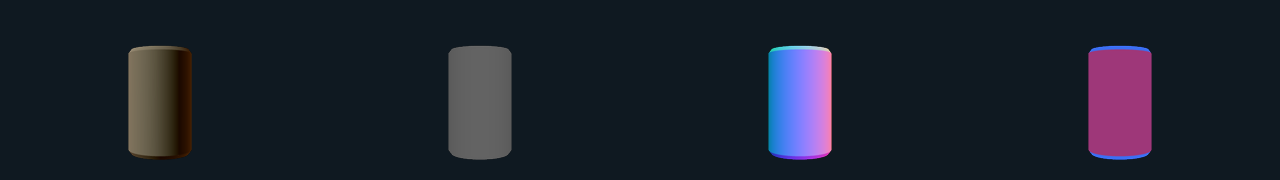
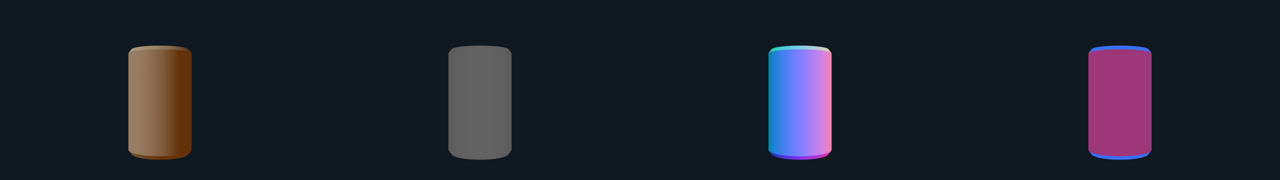
Hybrid starter: light the can at environment intensity 1, measured
The starter's plate-lit environment intensity (1.5) was set while the
mirrored half of the panorama was empty. With both halves filled, a
plain can beside a real can in three generated plates came out, by mean
linear-light brightness over the bodies (code can / real can):

  plate                  0.8    1.0    1.2
  desk, lit from front   0.83   1.05   1.28
  kitchen, from front    0.84   1.06   1.29
  patio, sun behind      1.35   1.63   1.89

with the lids at aluminium's reflectance (#f5f6f6, about 0.91). With the
old #d9dde2 (about 0.72) the front-lit plates needed about 1.27, which is
why a higher gain looked right before. Intensity 1 means the
environment's light is the plate's own pixel values. The backlit plate
cannot be matched by a single value, because the mirrored half also puts
the sun in front of the object; the docs now give that figure.

The integration test's thresholds were not changed: lit/shaded on the
synthetic plate is 168/116 (was 183/140), still above both the 1.2 ratio
and the shaded floor of 90, and the pre-fix environment still fails the
floor (43). The two docs images showed the pre-fix black shaded side and
are regenerated.

Changed region(s): [[0.0938, 0.25, 0.1562, 0.8889]]

diff --git a/docs/hybrid-scenes.md b/docs/hybrid-scenes.md
@@ -165,7 +165,7 @@ None of this narrows what a renderer may draw. A scene that uses other libraries
 Three helpers guess from a single view. Expose their results as controls.
 
 - **`estimateKeyLight`** reads which side the light is on from the brightest 5% of the frame. A picture cannot say how far in front of or behind the subject the light is, so that part is a stated assumption: a small source is placed level with the subject, a broad one in front of it. The brightest area is not always the light: a white desk under a window reads as light from below, and a low sun behind the subject reads as light from the front. A shadow cast from the estimate then falls the wrong way, so let the author set the direction.
-- **`createPlateEnvironment`** has only what the camera saw. It puts the plate in front and a mirrored copy behind the camera, and pushes clipped highlights above 1 so they can act as light sources. The result is plausible. It is not a measurement of the real surroundings, and the highlight boost is not recovered data. Use a real `environment` asset when you have one.
+- **`createPlateEnvironment`** has only what the camera saw. It puts the plate in front and a mirrored copy behind the camera, and pushes clipped highlights above 1 so they can act as light sources. The result is plausible. It is not a measurement of the real surroundings, and the highlight boost is not recovered data. Use a real `environment` asset when you have one. Keep `scene.environmentIntensity` at 1, as the starter does: the light is then the plate's own pixel values with no gain, and a material should have its real reflectance (aluminium is about 0.91, `#f5f6f6`).
 - **Depth `near` and `far`** are yours to tune, as above.
 
 ## Frame rate
@@ -215,7 +215,7 @@ The helpers were tried on twelve 5–6 second plates from four video models (See
 | Screen or label on a surface | Holds on rigid surfaces. A screen pinned to a phone in a moving hand stayed within 3 px of where it started on the screen, at 1088 × 1920, while the phone moved 24 px. A sheet of paper that curled is not a plane: with all four corners right, its edges missed the pin by up to 15 px. |
 | Headline behind a subject | Works with a hosted matte. Hair over dark letters shows a 1–2 px light fringe. |
 | Footage in front of a 3D object | Works once `near` and `far` are tuned by eye. The edge is as rough as the depth map's own edge, a few pixels. A depth model that normalises each frame separately changes an object's value when something new enters the shot; prefer one that is consistent over time. |
-| Lit by the footage | The plate's colour carries over. Under strongly coloured light a bare metal object takes too much of it (aluminium read as brass in a warm kitchen). `estimateKeyLight` chose the wrong side on two of three plates, as described above. |
+| Lit by the footage | The plate's colour carries over. Under strongly coloured light a bare metal object takes too much of it (aluminium read as brass in a warm kitchen). At environment intensity 1, a plain aluminium can was 5–6% brighter over its body than a real can standing beside it, on the two plates lit from the front. On a plate lit from behind (a low sun in the shot) it was 1.6 times too bright, because the mirrored half puts that sun in front of the object too. `estimateKeyLight` chose the wrong side on two of three plates, as described above. |
 | Placing a 3D object without a camera solve | A real stand-in object in the plate (a plain can), tracked as a plane, gave position and scale for a code object beside it through a slow push-in. It also shows what the plate's own light and shadow look like on that object. |
 
 Two things made pinned graphics read as part of the surface: a `mix-blend-mode` chosen for the material (`screen` for chalk on a dark board, `multiply` for print on paper), and the plate's own frame rate for the whole project.

diff --git a/skills/editableframes/references/hybrid.md b/skills/editableframes/references/hybrid.md
@@ -157,7 +157,7 @@ None of this narrows what a renderer may draw. A scene that uses other libraries
 Three helpers guess from a single view. Expose their results as controls.
 
 - **`estimateKeyLight`** reads which side the light is on from the brightest 5% of the frame. A picture cannot say how far in front of or behind the subject the light is, so that part is a stated assumption: a small source is placed level with the subject, a broad one in front of it. The brightest area is not always the light: a white desk under a window reads as light from below, and a low sun behind the subject reads as light from the front. A shadow cast from the estimate then falls the wrong way, so let the author set the direction.
-- **`createPlateEnvironment`** has only what the camera saw. It puts the plate in front and a mirrored copy behind the camera, and pushes clipped highlights above 1 so they can act as light sources. The result is plausible. It is not a measurement of the real surroundings, and the highlight boost is not recovered data. Use a real `environment` asset when you have one.
+- **`createPlateEnvironment`** has only what the camera saw. It puts the plate in front and a mirrored copy behind the camera, and pushes clipped highlights above 1 so they can act as light sources. The result is plausible. It is not a measurement of the real surroundings, and the highlight boost is not recovered data. Use a real `environment` asset when you have one. Keep `scene.environmentIntensity` at 1, as the starter does: the light is then the plate's own pixel values with no gain, and a material should have its real reflectance (aluminium is about 0.91, `#f5f6f6`).
 - **Depth `near` and `far`** are yours to tune, as above.
 
 ## Frame rate
@@ -203,7 +203,7 @@ The helpers were tried on twelve 5–6 second plates from four video models (See
 | Screen or label on a surface | Holds on rigid surfaces. A screen pinned to a phone in a moving hand stayed within 3 px of where it started on the screen, at 1088 × 1920, while the phone moved 24 px. A sheet of paper that curled is not a plane: with all four corners right, its edges missed the pin by up to 15 px. |
 | Headline behind a subject | Works with a hosted matte. Hair over dark letters shows a 1–2 px light fringe. |
 | Footage in front of a 3D object | Works once `near` and `far` are tuned by eye. The edge is as rough as the depth map's own edge, a few pixels. A depth model that normalises each frame separately changes an object's value when something new enters the shot; prefer one that is consistent over time. |
-| Lit by the footage | The plate's colour carries over. Under strongly coloured light a bare metal object takes too much of it (aluminium read as brass in a warm kitchen). `estimateKeyLight` chose the wrong side on two of three plates, as described above. |
+| Lit by the footage | The plate's colour carries over. Under strongly coloured light a bare metal object takes too much of it (aluminium read as brass in a warm kitchen). At environment intensity 1, a plain aluminium can was 5–6% brighter over its body than a real can standing beside it, on the two plates lit from the front. On a plate lit from behind (a low sun in the shot) it was 1.6 times too bright, because the mirrored half puts that sun in front of the object too. `estimateKeyLight` chose the wrong side on two of three plates, as described above. |
 | Placing a 3D object without a camera solve | A real stand-in object in the plate (a plain can), tracked as a plane, gave position and scale for a code object beside it through a slow push-in. It also shows what the plate's own light and shadow look like on that object. |
 
 Two things made pinned graphics read as part of the surface: a `mix-blend-mode` chosen for the material (`screen` for chalk on a dark board, `multiply` for print on paper), and the plate's own frame rate for the whole project.

diff --git a/CHANGELOG.md b/CHANGELOG.md
@@ -11,6 +11,7 @@ Hybrid scenes: code-rendered elements composited with filmed or generated footag
 - Add shutter motion blur at export: `render --motion-blur ANGLE [--samples N]`.
 - Add `init --hybrid`, a starter with a synthetic plate, and `npm run test:hybrid`.
 - Document a trial of the hybrid helpers on generated footage, and how to conform mattes and depth maps made by other tools.
+- The hybrid starter lights its can from the footage at environment intensity 1 (was 1.5, set while half of the panorama was empty), with aluminium lids at aluminium's reflectance. Measured against real cans in generated plates.
 - Fix transparent DOM-root exports capturing the preview page's own header through the scene. Any transparent renderer export smaller than the header area was affected.
 
 Runtime files changed, so existing projects need their normal `rebind`.
